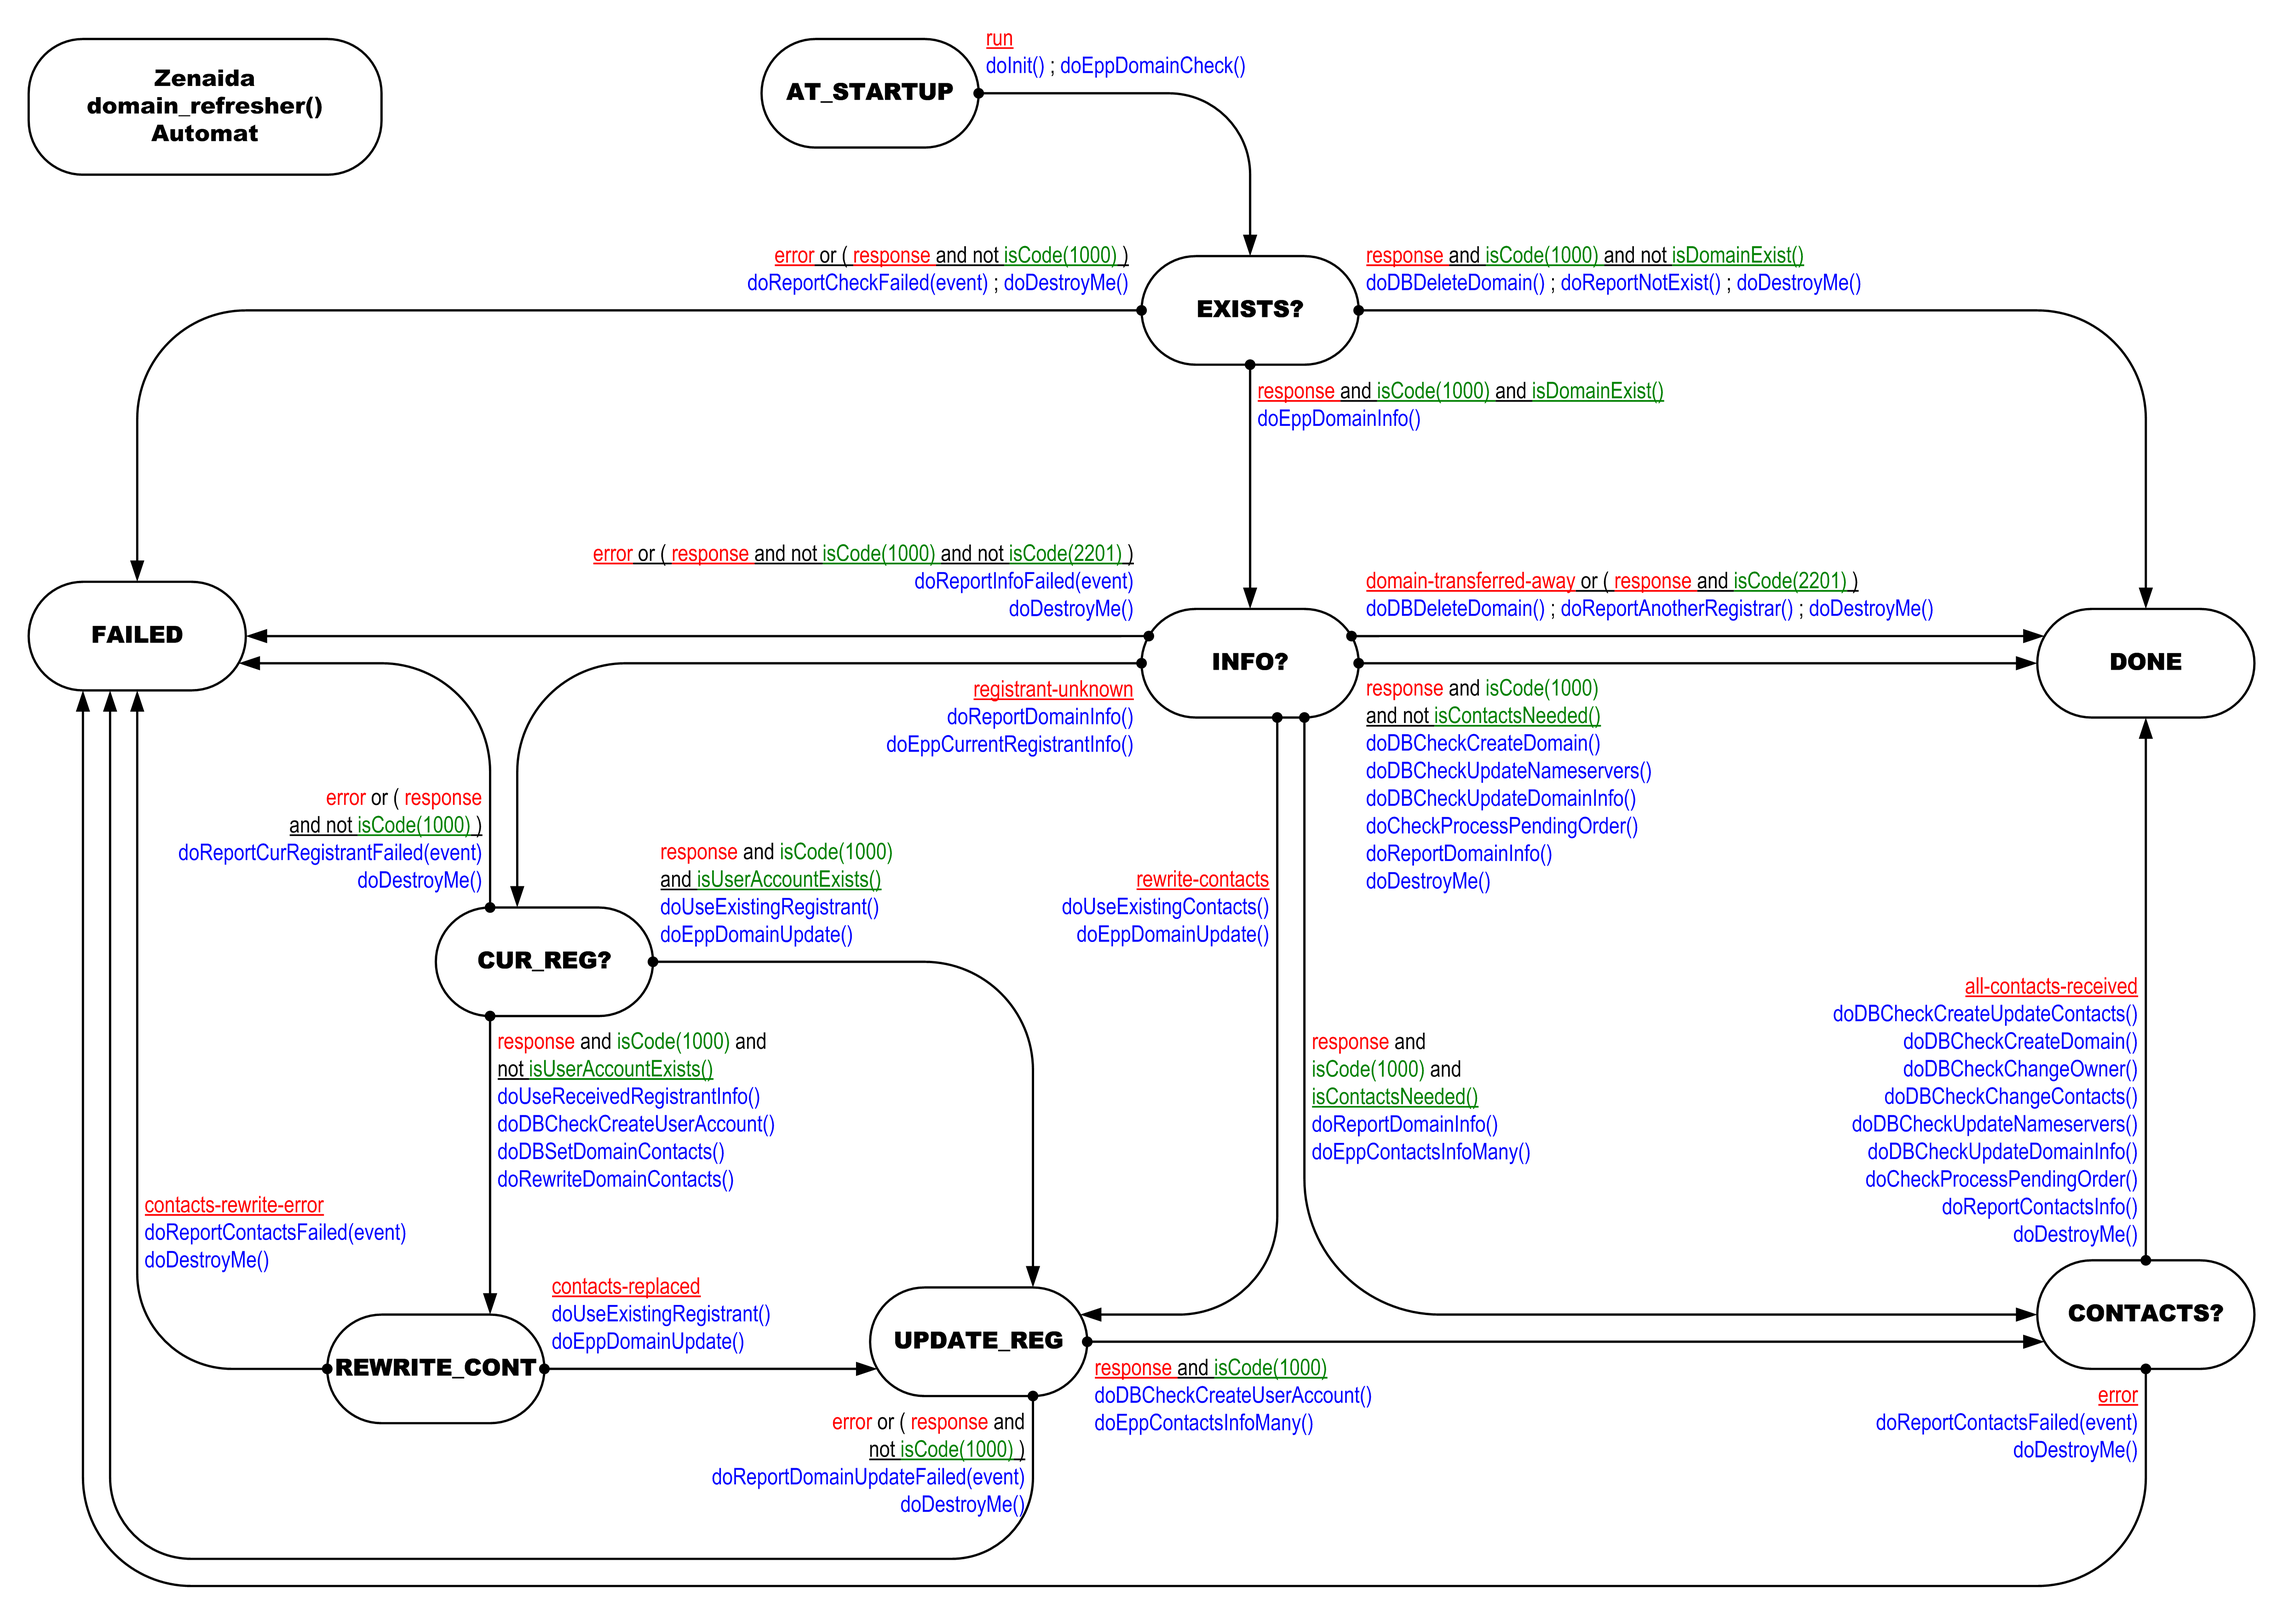
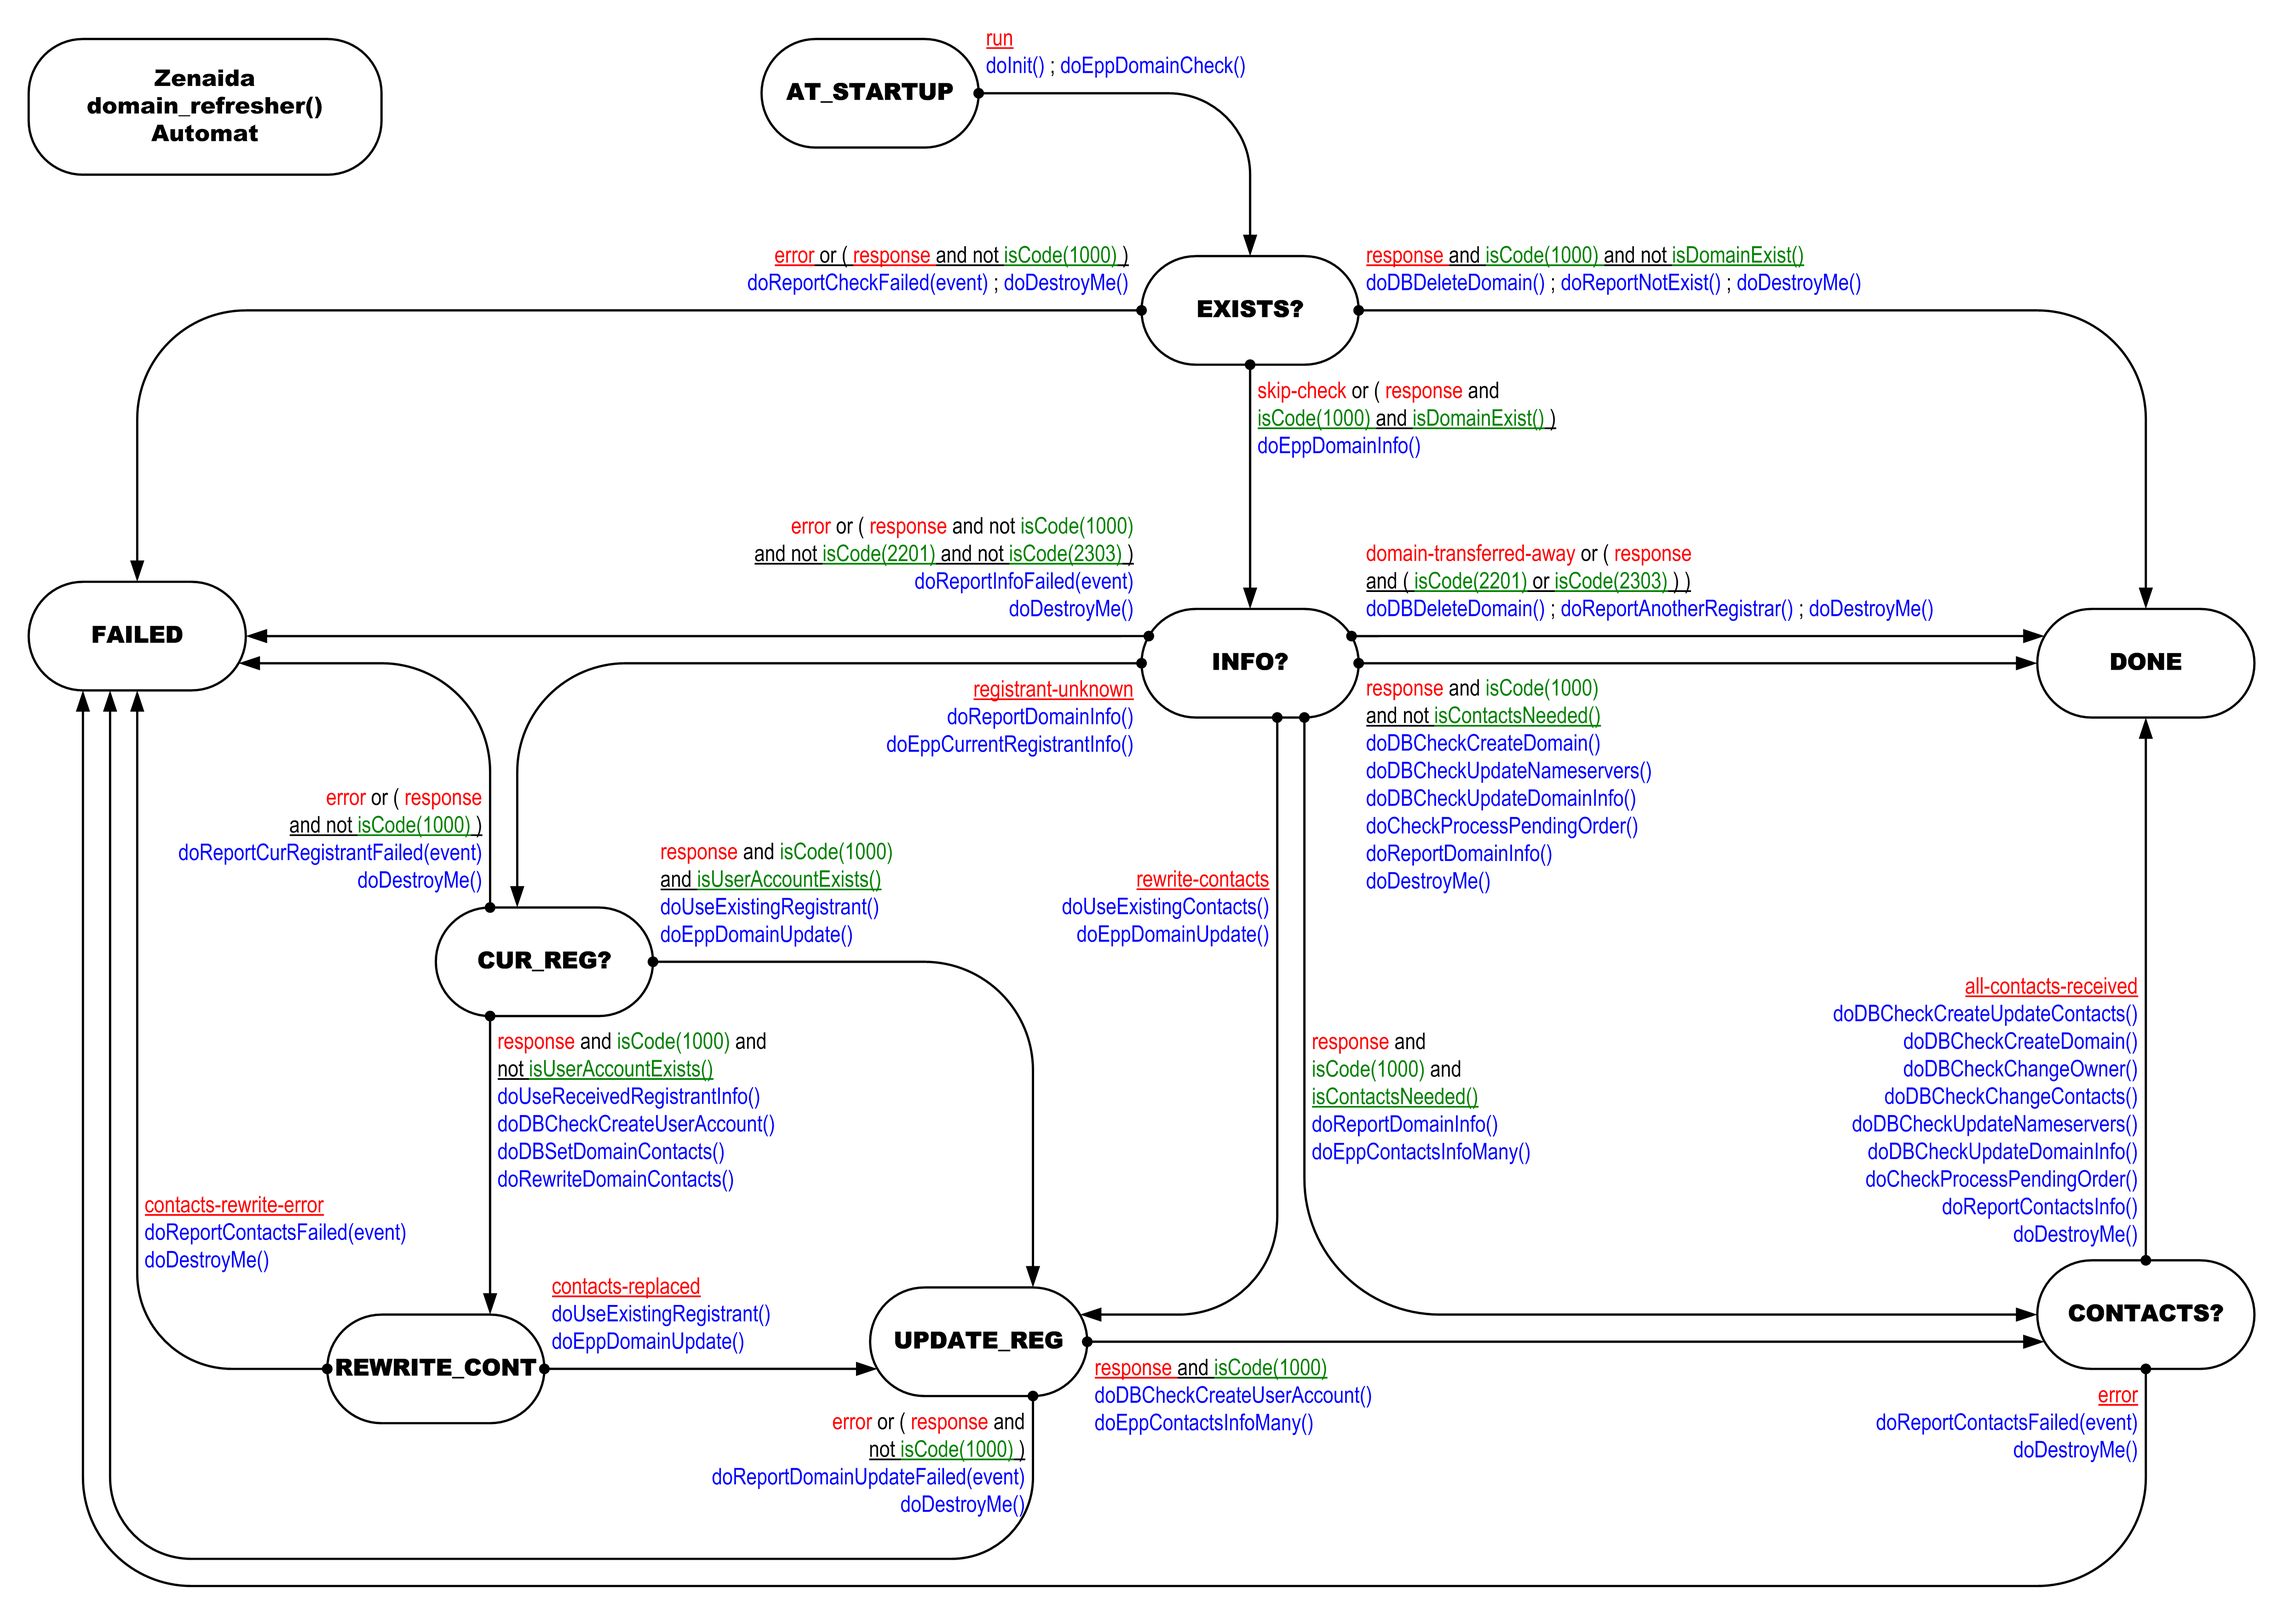
fix in domain_refresher() related to 2303 error code

diff --git a/src/automats/domain_refresher.py b/src/automats/domain_refresher.py
@@ -152,23 +152,23 @@ class DomainRefresher(automat.Automat):
                 self.doCheckProcessPendingOrder(*args, **kwargs)
                 self.doReportDomainInfo(*args, **kwargs)
                 self.doDestroyMe(*args, **kwargs)
-            elif event == 'error' or ( event == 'response' and not self.isCode(1000, *args, **kwargs) and not self.isCode(2201, *args, **kwargs) ):
-                self.state = 'FAILED'
-                self.doReportInfoFailed(event, *args, **kwargs)
-                self.doDestroyMe(*args, **kwargs)
             elif event == 'registrant-unknown':
                 self.state = 'CUR_REG?'
                 self.doReportDomainInfo(*args, **kwargs)
                 self.doEppCurrentRegistrantInfo(*args, **kwargs)
-            elif event == 'domain-transferred-away' or ( event == 'response' and self.isCode(2201, *args, **kwargs) ):
-                self.state = 'DONE'
-                self.doDBDeleteDomain(*args, **kwargs)
-                self.doReportAnotherRegistrar(*args, **kwargs)
-                self.doDestroyMe(*args, **kwargs)
             elif event == 'rewrite-contacts':
                 self.state = 'UPDATE_REG'
                 self.doUseExistingContacts(*args, **kwargs)
                 self.doEppDomainUpdate(*args, **kwargs)
+            elif event == 'error' or ( event == 'response' and not self.isCode(1000, *args, **kwargs) and not self.isCode(2201, *args, **kwargs) and not self.isCode(2303, *args, **kwargs) ):
+                self.state = 'FAILED'
+                self.doReportInfoFailed(event, *args, **kwargs)
+                self.doDestroyMe(*args, **kwargs)
+            elif event == 'domain-transferred-away' or ( event == 'response' and ( self.isCode(2201, *args, **kwargs) or self.isCode(2303, *args, **kwargs) ) ):
+                self.state = 'DONE'
+                self.doDBDeleteDomain(*args, **kwargs)
+                self.doReportAnotherRegistrar(*args, **kwargs)
+                self.doDestroyMe(*args, **kwargs)
         #---CONTACTS?---
         elif self.state == 'CONTACTS?':
             if event == 'all-contacts-received':
@@ -337,7 +337,7 @@ class DomainRefresher(automat.Automat):
             self.event('error', exc)
             return
 
-        if code == 2201:
+        if code == 2201 or code == 2303:
             self.domain_info_response = response
             self.event('response', response)
             return
